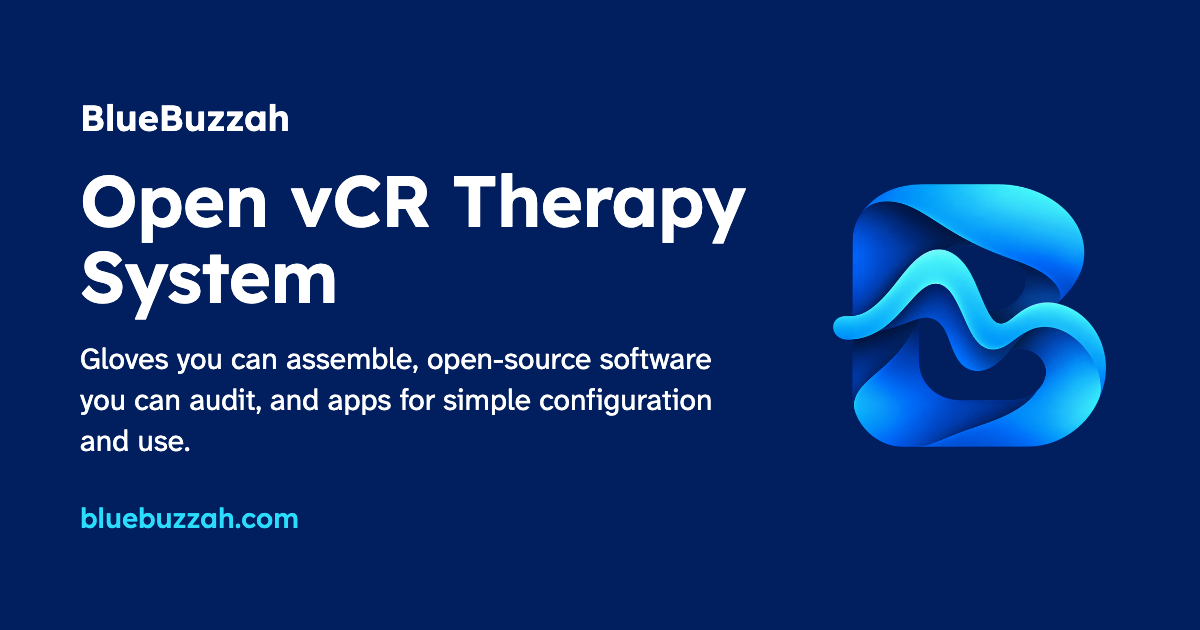
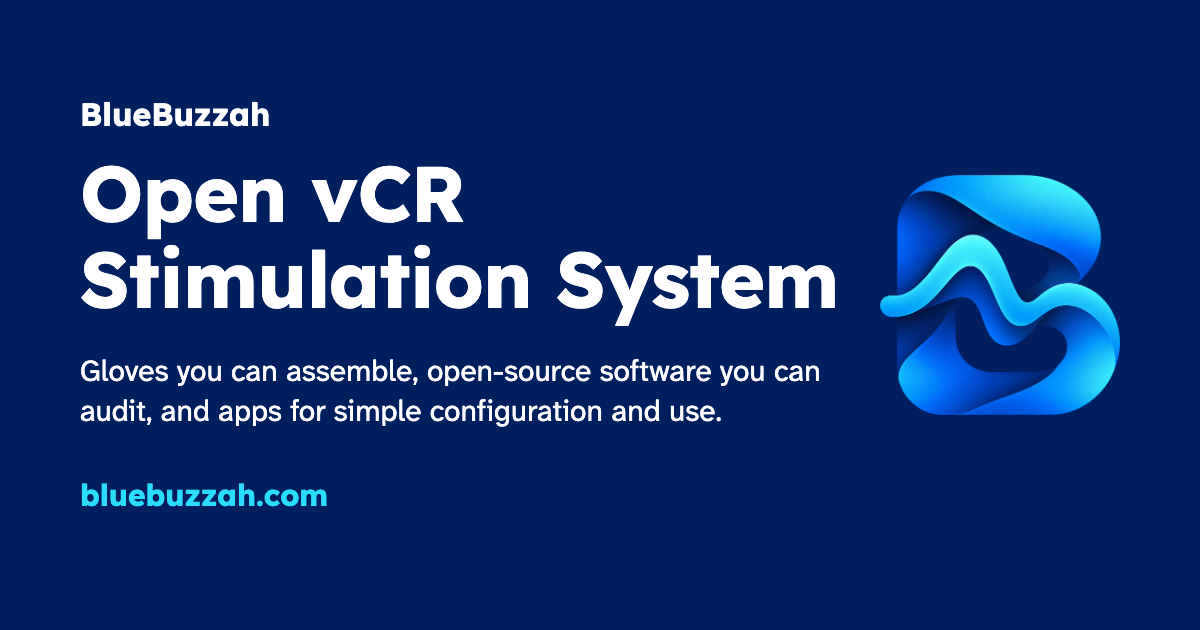
docs: research framing in the home page, docs and share card

diff --git a/src/.vitepress/theme/Home.vue b/src/.vitepress/theme/Home.vue
@@ -3,9 +3,9 @@
 		<section class="hero">
 			<div class="container hero__inner">
 				<div class="stack hero__text">
-					<h1 class="display-xl">Open vCR Therapy System</h1>
-					<p class="body-l prose">BlueBuzzah is an open-source vibrotactile coordinated reset (vCR) therapy device system which delivers gentle, precisely calculated patterns
-					of vibrations to user's fingertips. Based upon peer-reviewed research demonstrating potential symptom relief for Parkinson's patients.</p>
+					<h1 class="display-xl">Open vCR Stimulation System</h1>
+					<p class="body-l prose">BlueBuzzah is an open-source vibrotactile coordinated reset (vCR) stimulation system: a pair of gloves that deliver gentle, precisely timed patterns
+					of vibration to your fingertips. It is inspired by peer-reviewed research into vCR stimulation for people with Parkinson's disease.</p>
 					<div class="button-row">
 						<a class="bb-btn bb-btn--primary" href="#about"><svg class="bb-icon" width="24" height="24" viewBox="0 0 24 24" aria-hidden="true" focusable="false"><use href="/assets/icons/circle-question-mark.svg#icon"/></svg><span class="bb-btn__label">What is BlueBuzzah?</span></a>
 						<a class="bb-btn bb-btn--secondary" href="/docs/"><svg class="bb-icon" width="24" height="24" viewBox="0 0 24 24" aria-hidden="true" focusable="false"><use href="/assets/icons/hammer.svg#icon"/></svg><span class="bb-btn__label">Build a pair</span></a>
@@ -20,14 +20,14 @@
 				<h2 class="display-l section__title">What is BlueBuzzah?</h2>
 				<div class="about-grid">
 					<div class="prose stack">
-						<p class="body-l">BlueBuzzah is a community-driven, open-source project creating accessible vibrotactile therapy devices for people living with Parkinson's disease. BlueBuzzah is inspired by groundbreaking research on vibrotactile coordinated reset (vCR) stimulation.</p>
-						<p class="body-l">The system applies gentle vibrations to fingertips, stimulating sensory neurons connected to motor control regions of the brain. Research suggests this may help address tremor, rigidity, and movement challenges.</p>
-						<p class="body-l">Built on readily available hardware and open-source software, BlueBuzzah empowers patients, caregivers, and makers to build their own therapy devices.</p>
+						<p class="body-l">BlueBuzzah is a community-driven, open-source project creating accessible vibrotactile stimulation gloves for people living with Parkinson's disease. BlueBuzzah is inspired by groundbreaking research on vibrotactile coordinated reset (vCR) stimulation.</p>
+						<p class="body-l">In published studies, patterned fingertip vibration stimulated sensory pathways linked to movement, and researchers reported it may help with tremor, rigidity and movement. BlueBuzzah is an open design inspired by that work.</p>
+						<p class="body-l">Built on readily available hardware and open-source software, BlueBuzzah lets people with Parkinson's, caregivers, and makers build their own gloves.</p>
 					</div>
 					<ul class="list-reset grid-2 about-features">
 						<li class="feature"><svg class="bb-icon icon-brand" width="24" height="24" viewBox="0 0 24 24" aria-hidden="true" focusable="false"><use href="/assets/icons/zap.svg#icon"/></svg><div><p class="body-strong">Bluetooth Low Energy</p><p class="body-s text-muted">Wireless device sync</p></div></li>
-						<li class="feature"><svg class="bb-icon icon-brand" width="24" height="24" viewBox="0 0 24 24" aria-hidden="true" focusable="false"><use href="/assets/icons/clock.svg#icon"/></svg><div><p class="body-strong">8+ Hours Battery</p><p class="body-s text-muted">Extended therapy sessions</p></div></li>
-						<li class="feature"><svg class="bb-icon icon-brand" width="24" height="24" viewBox="0 0 24 24" aria-hidden="true" focusable="false"><use href="/assets/icons/settings.svg#icon"/></svg><div><p class="body-strong">Configurable Patterns</p><p class="body-s text-muted">Customizable therapy</p></div></li>
+						<li class="feature"><svg class="bb-icon icon-brand" width="24" height="24" viewBox="0 0 24 24" aria-hidden="true" focusable="false"><use href="/assets/icons/clock.svg#icon"/></svg><div><p class="body-strong">8+ Hours Battery</p><p class="body-s text-muted">Long sessions on one charge</p></div></li>
+						<li class="feature"><svg class="bb-icon icon-brand" width="24" height="24" viewBox="0 0 24 24" aria-hidden="true" focusable="false"><use href="/assets/icons/settings.svg#icon"/></svg><div><p class="body-strong">Configurable Patterns</p><p class="body-s text-muted">Customizable sessions</p></div></li>
 						<li class="feature"><svg class="bb-icon icon-brand" width="24" height="24" viewBox="0 0 24 24" aria-hidden="true" focusable="false"><use href="/assets/icons/square-terminal.svg#icon"/></svg><div><p class="body-strong">Open Source</p><p class="body-s text-muted">MIT licensed</p></div></li>
 					</ul>
 				</div>
@@ -126,8 +126,8 @@
 							<div><h3 class="bb-card__title title-with-icon" id="part-buzzahbuddy"><svg class="bb-icon icon-brand" width="24" height="24" viewBox="0 0 24 24" aria-hidden="true" focusable="false"><use href="/assets/icons/smartphone.svg#icon"/></svg>BuzzahBuddy</h3></div>
 							<div class="bb-card__actions"><span class="bb-badge bb-badge--brand"><svg class="bb-icon" width="18" height="18" viewBox="0 0 24 24" aria-hidden="true" focusable="false"><use href="/assets/icons/flask-conical.svg#icon"/></svg><span>Early Access</span></span></div>
 						</header>
-						<p class="body">The smartphone companion app for therapy session control and progress monitoring.
-						Start, stop, and customize your therapy from your phone.</p>
+						<p class="body">The smartphone companion app for session control and progress monitoring.
+						Start, stop, and customize your sessions from your phone.</p>
 						<a class="bb-btn bb-btn--quiet card-action" href="https://buzzahbuddy.com"><span class="bb-btn__label">Visit BuzzahBuddy.com</span><svg class="bb-icon" width="24" height="24" viewBox="0 0 24 24" aria-hidden="true" focusable="false"><use href="/assets/icons/external-link.svg#icon"/></svg></a>
 					</li>
 				</ul>
@@ -161,7 +161,7 @@
 							<!-- mirrors bundle.js StatusBadge tone="brand" icon="flask-conical" (DS import 1793729877-6a2e) -->
 							<div class="bb-card__actions"><span class="bb-badge bb-badge--brand"><svg class="bb-icon" width="18" height="18" viewBox="0 0 24 24" aria-hidden="true" focusable="false"><use href="/assets/icons/flask-conical.svg#icon"/></svg><span>Early Access</span></span></div>
 						</header>
-						<p class="body">BuzzahBuddy lets you control therapy sessions, adjust and customize settings, and track usage, all from your phone.</p>
+						<p class="body">BuzzahBuddy lets you control sessions, adjust and customize settings, and track usage, all from your phone.</p>
 						<!-- web.md Download pages: official store badges, equal weight, no platform detection -->
 						<div class="button-row">
 							<a class="download-badge store-badge" href="https://testflight.apple.com/join/DMuPNBGA" aria-describedby="early-access-note"><img src="/assets/apple-appstore.png" alt="Download on the App Store" width="512" height="171"></a>
@@ -184,7 +184,7 @@
 							<div><h3 class="bb-card__title" id="thanks-tass">Dr. Peter Tass and Tass Lab, Stanford</h3></div>
 							
 						</header>
-						<p class="body">For all their dedicated work in inventing and improving a vibrotactile glove treatment for Parkinson's.</p>
+						<p class="body">For all their dedicated work in inventing and studying vibrotactile coordinated reset stimulation for Parkinson's.</p>
 					</li>
 					<li class="bb-card bb-card--lg bb-card--flat" aria-labelledby="thanks-community">
 						<header class="bb-card__head">

diff --git a/README.md b/README.md
@@ -1,10 +1,10 @@
 # BlueBuzzah.com
 
-Landing page for the BlueBuzzah open-source vibrotactile therapy ecosystem.
+Landing page for the BlueBuzzah open-source vibrotactile stimulation ecosystem.
 
 ## About
 
-BlueBuzzah develops open-source vibrotactile coordinated reset (vCR) therapy devices for people living with Parkinson's disease. This repository contains the static landing page that introduces the project, references peer-reviewed research, and provides download links for the BlueBuzzah Updater application.
+BlueBuzzah publishes open-source vibrotactile coordinated reset (vCR) stimulation gloves for people living with Parkinson's disease. This repository contains the static landing page that introduces the project, references peer-reviewed research, and provides download links for the BlueBuzzah Updater application.
 
 ## Tech Stack
 

diff --git a/src/docs/gloves.md b/src/docs/gloves.md
@@ -19,7 +19,7 @@ Stretchy nitrile-dipped work gloves may work best, but the right glove varies fr
 
 Look for a glove that passes all of these checks:
 
-- **Snug fingertips.** The fingertip holds the tactor against the pad of your finger. A loose glove lets the tactor drift off the skin, and you won't feel the therapy.
+- **Snug fingertips.** The fingertip holds the tactor against the pad of your finger. A loose glove lets the tactor drift off the skin, and you won't feel the buzz.
 - **Comfortable for a full session.** The glove must not restrict circulation or be uncomfortable.
 - **Easy on and off.** The glove goes on and off almost as easily as a glove with no tactors, so you can slip it off whenever you need your bare hands.
 

diff --git a/src/docs/updater/index.md b/src/docs/updater/index.md
@@ -23,7 +23,7 @@ On macOS, open the download and drag the Updater into Applications. On Windows, 
 The sidebar has 3 sections. Each one has a keyboard shortcut, shown beside it.
 
 - **Firmware:** install or update the firmware, and set each glove's role. See [Update the firmware](/docs/updater/firmware).
-- **Configure:** choose the therapy pattern and how the light behaves. See [Configure the gloves](/docs/updater/configure).
+- **Configure:** choose the pattern and how the light behaves. See [Configure the gloves](/docs/updater/configure).
 - **Settings:** the theme, high contrast, and the Updater's version.
 
 The Updater calls each glove a device. While a flash or setup runs, the other sections stay locked until it finishes.

diff --git a/src/docs/boards.md b/src/docs/boards.md
@@ -57,7 +57,7 @@ Flash both boards in one run, or one at a time.
 
 The firmware is the same on both boards. It doesn't matter yet which board gets which role. You pair each role with a glove in [stage 4, Fit the tactors in the gloves](/docs/gloves).
 
-[Update the firmware](/docs/updater/firmware) has more on each step, later updates and swapping roles. Therapy patterns are in [Configure the gloves](/docs/updater/configure).
+[Update the firmware](/docs/updater/firmware) has more on each step, later updates and swapping roles. Patterns are in [Configure the gloves](/docs/updater/configure).
 
 ## Check the boards
 

diff --git a/src/docs/first-session.md b/src/docs/first-session.md
@@ -45,5 +45,5 @@ Charge each glove over USB-C. BuzzahBuddy shows each glove's battery level.
 ## Where to go next
 
 - Every light pattern is in [What the lights mean](/docs/lights).
-- Therapy patterns are in [Configure the gloves](/docs/updater/configure), and firmware updates in [Update the firmware](/docs/updater/firmware).
+- Patterns are in [Configure the gloves](/docs/updater/configure), and firmware updates in [Update the firmware](/docs/updater/firmware).
 - If something's wrong, see [Troubleshooting](/docs/troubleshooting).

diff --git a/src/docs/safety.md b/src/docs/safety.md
@@ -22,6 +22,6 @@ lead: Please read carefully before proceeding.
 
 ## Research context
 
-This project is based on Dr. Peter Tass's research on vibrotactile Coordinated Reset (vCR) therapy. For more information about the underlying research, see:
+This project is based on Dr. Peter Tass's research on vibrotactile Coordinated Reset (vCR) stimulation. For more information about the underlying research, see:
 
 - [Coordinated Reset Vibrotactile Stimulation Study](https://www.ncbi.nlm.nih.gov/pmc/articles/PMC8055937/)

diff --git a/src/index.md b/src/index.md
@@ -1,5 +1,5 @@
 ---
 page: home
-title: BlueBuzzah - Open-source Vibrotactile Therapy System
-description: "BlueBuzzah is an open-source, experimental vibrotactile therapy system for people living with Parkinson's: gloves you can build and software you can read."
+title: BlueBuzzah - Open-source Vibrotactile Stimulation System
+description: "BlueBuzzah is an open-source, experimental vibrotactile stimulation system for people living with Parkinson's: gloves you can build and software you can read."
 ---

diff --git a/src/docs/updater/configure.md b/src/docs/updater/configure.md
@@ -1,7 +1,7 @@
 ---
 page: docs
 title: Configure the gloves
-description: "Choose a therapy pattern, set your own Custom timing and strength, and turn the light off during sessions, with the BlueBuzzah Updater."
+description: "Choose a pattern, set your own Custom timing and strength, and turn the light off during sessions, with the BlueBuzzah Updater."
 lead: Choose how your gloves buzz, then give both gloves the same settings.
 ---
 
